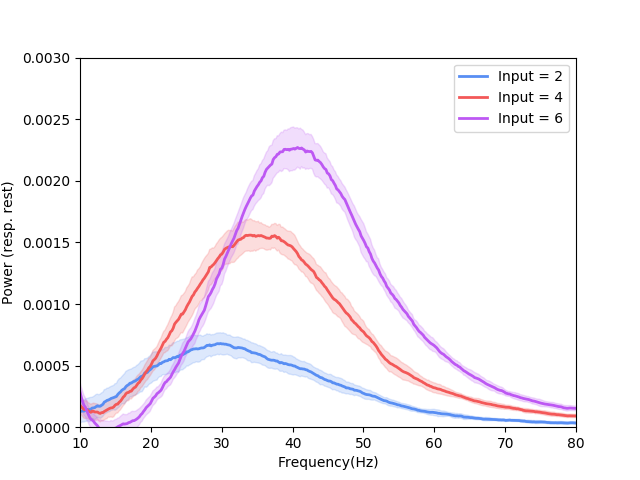
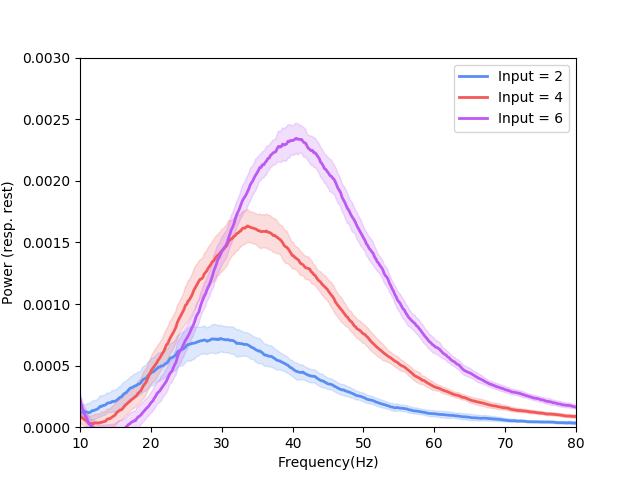
Python: Improve print layouts and fix shape of Inputs

diff --git a/Python/Mejias-2016.py b/Python/Mejias-2016.py
@@ -96,19 +96,21 @@ if args.analysis == 'intralaminar':
     # Note: Because of the way the way intralaminar_simulation is defined only the results for L2/3
     # will be save and used for further analysis
     layer = 'L2_3'
-    print('Analysing layer %s' %layer)
+    print('    Analysing layer %s' %layer)
     # check if simulation file already exists, if not run the simulation
     simulation_file = 'intralaminar/L2_3_simulation.pckl'
     if not os.path.isfile(simulation_file):
-        print('Re-calculating the simulation')
+        print('    Re-calculating the simulation')
         intralaminar_simulation(args.analysis, layer, Iexts, Ibgk, nruns, t, dt, tstop,
                         J, tau, sig, args.noise, Nareas)
     else:
-        print('Using the pre-saved simulation file: %s' %simulation_file)
+        print('    Loading the pre-saved simulation file: %s' %simulation_file)
     intralaminar_analysis(Iexts, nruns, layer, dt, transient)
     intralaminar_plt(layer)
 
 if args.analysis == 'interlaminar_a':
+    print('Interlaminar Simulation')
+    print('-----------------------')
     # Calculates the power spectrum for the coupled and uncoupled case for L2/3 and L5/6
     dt = 2e-4
     tstop = 600
@@ -127,8 +129,8 @@ if args.analysis == 'interlaminar_a':
                   [wie, wii, J_5i, 0],
                   [J_2e, 0, wee, wei],
                   [J_2i, 0, wie, wii]])
-    Iext = np.array([[8], [0], [8], [0]])
-    Ibgk = np.zeros((J.shape[0], 1))
+    Iext = np.array([8, 0, 8, 0])
+    Ibgk = np.zeros((J.shape[0]))
 
     Nbin = 100 # pick on e very 'bin' points
     pxx_coupled_l23_bin, fxx_coupled_l23_bin, pxx_coupled_l56_bin, fxx_coupled_l56_bin = \
@@ -158,6 +160,8 @@ if args.analysis == 'interlaminar_a':
 
 
 if args.analysis == 'interlaminar_b':
+    print('Interlaminar Simulation')
+    print('-----------------------')
     # Calculates the spectogram and 30 traces of actvity in layer 5/6
     # Define dt and the trial length
     dt = 2e-4
@@ -177,20 +181,21 @@ if args.analysis == 'interlaminar_b':
                   [J_2e, 0,   wee, wei],
                   [J_2i, 0,   wie, wii]])
 
-    Iext = np.array([[6], [0], [8], [0]])
-    Ibgk = np.zeros((J.shape[0], 1))
+    Iext = np.array([6, 0, 8, 0])
+    Ibgk = np.zeros((J.shape[0]))
 
     # frequencies of interest
     min_freq5 = 4 # alpha range
     min_freq2 = 30 # gama range
 
     # check if file with simulation exists, if not calculate the simulation
-    if not os.path.isfile(os.path.join(args.analysis, 'simulation.pckl')):
+    simulation_file = os.path.join(args.analysis, 'simulation.pckl')
+    if not os.path.isfile(simulation_file):
+        print('    Re-calculating the simulation')
         rate = interlaminar_simulation(args.analysis, t, dt, tstop, J, tau, sig, Iext, Ibgk, args.noise, Nareas)
     else:
-        # load pickle file with results
-        picklename = os.path.join(args.analysis, 'simulation.pckl')
-        with open(picklename, 'rb') as filename:
+        print('    Loading the pre-saved simulation file: %s' %simulation_file)
+        with open(simulation_file, 'rb') as filename:
             rate = pickle.load(filename)
 
     # Analyse and Plot traces of activity in layer 5/6

diff --git a/Python/interlaminar.py b/Python/interlaminar.py
@@ -14,7 +14,7 @@ def interlaminar_simulation(analysis, t, dt, tstop, J, tau, sig, Iext, Ibgk, noi
     picklename = os.path.join(analysis, 'simulation.pckl')
     with open(picklename, 'wb') as filename:
         pickle.dump(rate, filename)
-    print('Done Simulation!')
+    print('    Done Simulation!')
     return rate
 
 
@@ -60,12 +60,12 @@ def my_pretransformations(x, window, noverlap, fs):
 def interlaminar_activity_analysis(rate, transient, dt, t, min_freq5):
 
     # Note: This analysis selects only the excitatory populations from L2/3 and L5/6
-    x_2 = rate[0, int(round((transient + dt)/dt)) - 1:]
-    x_5 = rate[2, int(round((transient + dt)/dt)) - 1:]
+    x_2 = rate[0, int(round((transient + dt)/dt)) - 1:, 0]
+    x_5 = rate[2, int(round((transient + dt)/dt)) - 1:, 0]
 
     pxx, fxx = calculate_periodogram(x_5, transient, dt)
     f_peakalpha = find_peak_frequency(fxx, pxx, min_freq5)
-    print('Average peak frequency on the alpha range: %.02f Hz' %f_peakalpha)
+    print('    Average peak frequency on the alpha range: %.02f Hz' %f_peakalpha)
 
     # band-pass filter L5 activity
     fmin = 7; fmax = 12; fs = 1/dt

diff --git a/Python/intralaminar.py b/Python/intralaminar.py
@@ -69,7 +69,7 @@ def intralaminar_analysis(Iexts, nruns, layer, dt, transient):
     with open(picklename, 'wb') as file1:
         pickle.dump(psd_dic, file1)
 
-    print('Done Analysis!')
+    print('    Done Analysis!')
 
 
 def plt_filled_std(ax, fxx_plt, data_mean, data_std, color, label):
@@ -144,4 +144,4 @@ def intralaminar_simulation(analysis, layer, Iexts, Ibgk, nruns, t, dt, tstop,
     picklename = os.path.join(analysis, layer + '_simulation.pckl')
     with open(picklename, 'wb') as file1:
         pickle.dump(simulation, file1)
-    print('Done Simulation!')
+    print('    Done Simulation!')
